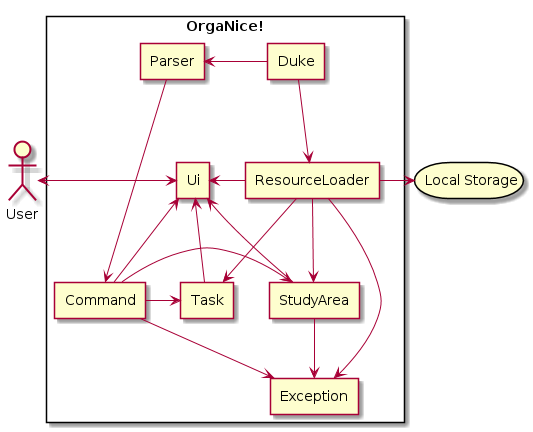
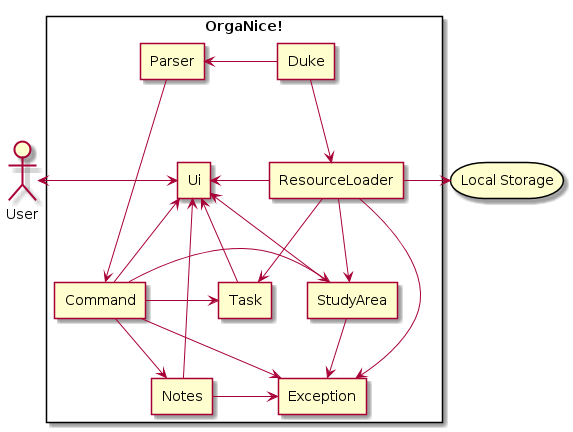
Add Notes into DG

diff --git a/docs/DeveloperGuide.md b/docs/DeveloperGuide.md
@@ -26,7 +26,7 @@ div {
 1. [Implementation](#3-implementation)<br>
     3.1. [Scheduling Tasks](#31-scheduling-tasks)<br>
     3.2. [Listing Study Areas](#32-listing-study-areas)<br>
-    3.3. [Undo/Redo of Notes](#33-undo-redo-of-notes)<br>
+    3.3. [Operation of Notes](#33-operation-of-notes)<br>
 1. [Testing](#4-testing)<br>
 
 [Appendix A: Product Scope](#appendix-a-product-scope)<br>
@@ -161,21 +161,27 @@ The task component contains 8 separate classes. They are as follows:
 [comment]: # (@@author terrytay)
 
 ### 2.4. Notes Component
-
-  The Notes component is self-contained apart from calling UI class for Strings output.
-  <br>
-  Inside Notes component, there exists these classes:
+![Notes Component](images/NotesComponent.png)
+<div>Figure 4. Object diagram for Notes Component</div>
+<br>
+The Notes component is self-contained apart from calling UI class for Strings output.
+<br> 
+Inside Notes component, there exists these classes:
   
-  	1. NotesInvoker : Class to start the Notes
+1. NotesInvoker : Class to start the Notes
 	
-	2. Notes : Class to support operations for the modules in the Notes, acts as interface.
+2. Notes : Class to support operations for the modules in the Notes, acts as interface.
 	
-	3. Modulelist: Class to implement actual modules operations and store modules list.
+3. Modulelist: Class to implement actual modules operations and store modules list.
 	
-	4. Command : Package containing Command interface, Add command, Command Stack classes.
+4. Command : Package containing Command interface, Add command, Command Stack classes.
 	
-	5. Parser : Class to parse commands for command-based operations.
-        
+5. Parser : Class to parse commands for command-based operations.
+
+
+
+ 
+ 
 ## 3. Implementation
 
 ### 3.1. Scheduling Tasks 
@@ -196,24 +202,24 @@ The task component contains 8 separate classes. They are as follows:
    The following sequence diagrams explain how tasks are scheduled.
 	
  ![Overall Sequence Diagram](images/Schedule_Overall.png)
-<div>Figure 4. Overall Sequence Diagram</div>
+<div>Figure 5. Overall Sequence Diagram</div>
 <br>
  The three reference frames used are as follows:
 
  * `Get information regarding the tasks from the user`
 
  ![Sub Diagram 1](images/Schedule_Sub1.png)
- <div>Figure 5. Sub Diagram 1</div>
+ <div>Figure 6. Sub Diagram 1</div>
  <br>
  * `Check and Schedule tasks if feasible`
 
  ![Sub Diagram 2](images/Schedule_Sub2.png)
- <div>Figure 6. Sub Diagram 2</div>
+ <div>Figure 7. Sub Diagram 2</div>
  <br>
  * `Add the scheduled tasks to current list of tasks`
  
  ![Sub Diagram 3](images/Schedule_Sub3.png)
- <div>Figure 7. Sub Diagram 3</div>
+ <div>Figure 8. Sub Diagram 3</div>
  <br> 
  
 #### 3.1.2 Alternatives
@@ -234,7 +240,7 @@ the user's requirements (e.g. Changes to the number of parameters provided by th
 
 [comment]: # (@@author NizarMohd)
 
-### 3.2 Listing Study Areas 
+### 3.2. Listing Study Areas 
 
 #### 3.2.1 Implementation 
 The Study Area search is facilitated by StudyAreaList. In this class, it has the list of all existing Study Areas, 
@@ -267,17 +273,17 @@ Below would be a sequence diagram to demonstrate how the search algorithm is ope
  * `User enters search key` 
  
 ![Study Area Sequence_Diagram_Main](images/user_sL_interaction.png)  
-<div>Figure 8. Interaction between User and Study Area Search Interface</div>
+<div>Figure 9. Interaction between User and Study Area Search Interface</div>
 <br>
 
  * `StudyAreaCommand invokes searchList() of StudyAreaList` 
  
 ![Study_Area_Sequence_Diagram_subModules](images/sL_sA_interaction.png)
-<div>Figure 9. Interaction within Study Area Search Interface</div>
+<div>Figure 10. Interaction within Study Area Search Interface</div>
 <br>
 
 ![Study_Area_Sequence_Diagram_subModules2](images/isAvailStudyArea.png)
-<div>Figure 10. Interaction when isAvailStudyArea is invoked</div>
+<div>Figure 11. Interaction when isAvailStudyArea is invoked</div>
 <br>
 You can refer [here](#appendix-d-glossary) for a detailed explanation on the terms used in this diagram
 #### 3.2.2 Alternative 
@@ -305,6 +311,46 @@ will be added to the output list.
   
 Therefore, the first alternative is chosen, as it is easier to implement and lesser memory is used while 
 conducting the search.
+
+[comment]: # (@@author terrytay)
+
+### 3.3. Operation of Notes
+
+#### 3.3.1 Implementation 
+
+The NotesInvoker class will create a Notes object. Notes acts as an Interface for the ModulesList class.
+Each module is mapped to an ArrayList of notes. This map is stored in the ModuleList class. The ModuleList class
+contains operations to add, remove, enter and list modules.
+<br>
+
+A ModuleManager class is used to hold operations for a module. These operations are achieved by working together
+with the Parser class and Command class. Operations supported are add, list, undo, redo. 
+
+Add operations are fairly simple, primarily using the add method of hashmap library. The implementation of
+undo and redo is stated here below.
+
+Each time an AddCommand object is called, CommandStack will determine if operation is add, undo or redo.
+<div>
+If operation is to add notes, the notes will be added to the value in the module key. At the same time, 
+this note that is added is also added to a CommandStack list in the CommandStack class. The redoStack list in the 
+CommandStack class is then cleared.
+</div>
+<br>
+<div>
+If operation is to undo added notes, the CommandStack will remove the last added note from
+the CommandStack and pass it to the Command class to execute the undo action by removing it from the module
+contained in the hashmap. Also, this note will be added to the redoStack list.
+</div>
+<br>
+<div>
+If operation is to redo removed notes, the CommandStack will remove the last added note in redoStack list and
+pass it to the Command class to execute the redo action by adding this note into the module contained in the
+hashmap.
+</div>
+<br>
+The reason why we chose two linked lists to support these operations is because it reduces the SLOC needed to
+write the logic. An alternative is to actually remember the state of the hashmap before an operation and save
+it to another hashmap. However, this approach will take up more memory and reduces the performance of the application. 
 
 [comment]: # (@@author )
 ## 4. Testing 
@@ -341,6 +387,8 @@ meets your needs and is conducive, should you urgently need one.
  |v2.0|user|mark deadline as done|check to see if I have pending deadlines|
  |v2.0|user|to delete a Module|clean up my finished notes|
  |v2.0|user|create a Module|add notes inside|
+ |v2.0|user|undo an added note|increase my efficiency|
+ |v2.0|user|redo a removed notes|increase my efficiency|
  |v2.0|user|create a schedule based on requirements|customise my tasks accordingly|
 
 ## Appendix C: Non-Functional Requirements    
